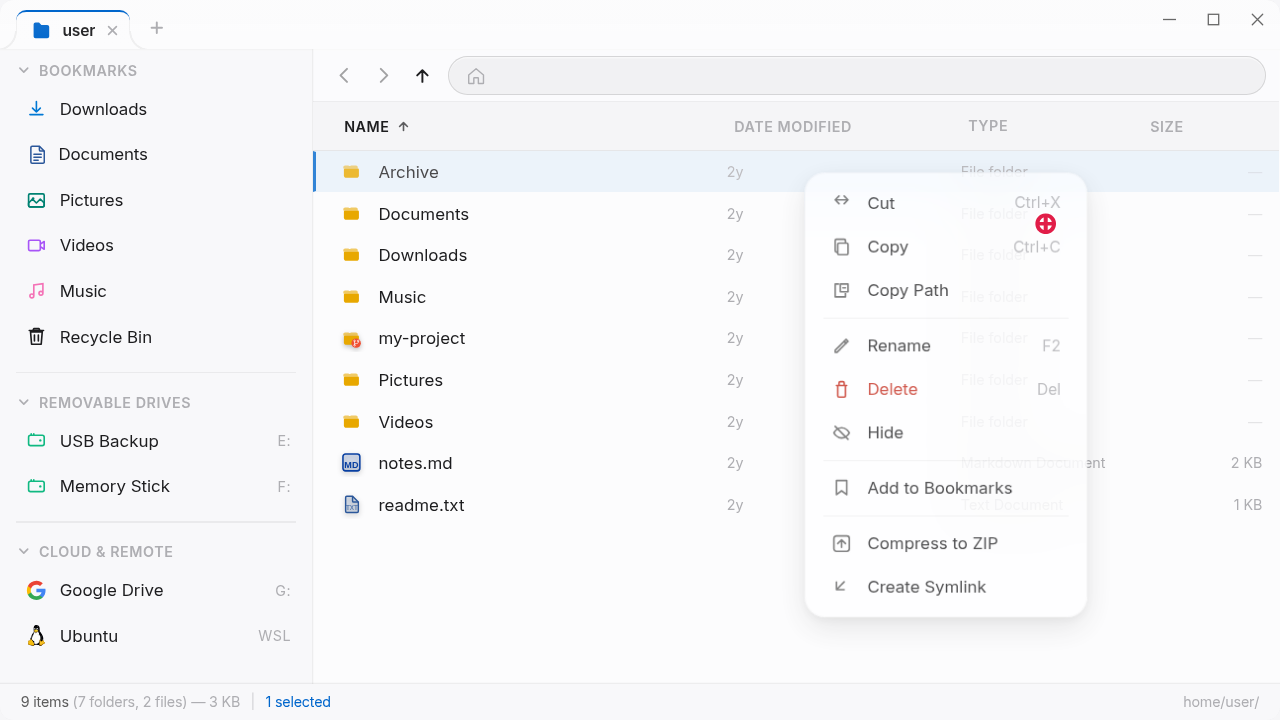
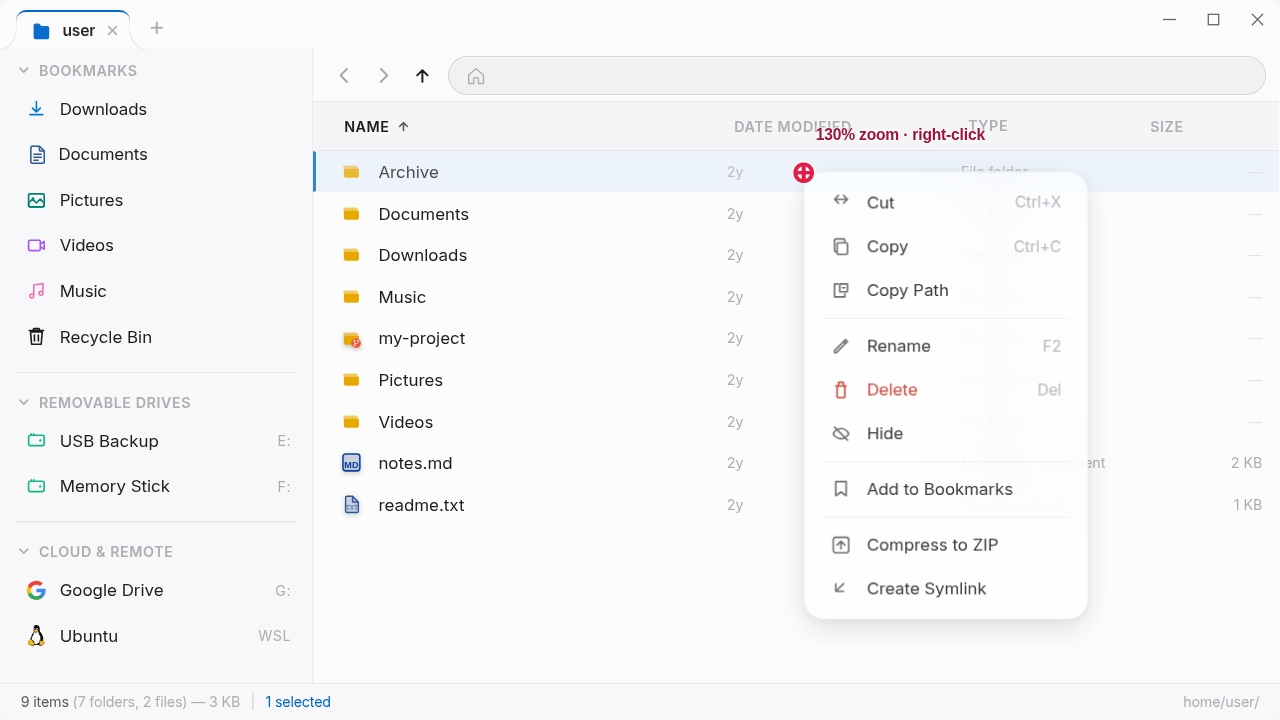
test: align context-menu evidence marker

diff --git a/e2e/zoom-positioning.spec.ts b/e2e/zoom-positioning.spec.ts
@@ -63,18 +63,18 @@ test.describe("Overlay positioning under zoom", () => {
     const rect = (await viewportRect(page, ".context-menu"))!;
     expect(Math.abs(rect.x - clickX)).toBeLessThan(TOLERANCE);
     expect(Math.abs(rect.y - clickY)).toBeLessThan(TOLERANCE);
-    // Playwright screenshots omit the OS cursor. Mark the coordinate from the
-    // actual right-click so the committed capture proves the measured menu
-    // placement instead of merely showing an open menu.
-    await page.evaluate(({ x, y }) => {
+    // Playwright screenshots omit the OS cursor. This Chromium control uses
+    // the same fixed-coordinate conversion as the menu: raw viewport coords
+    // would be zoomed a second time and make the evidence misleading.
+    await page.evaluate(({ x, y, zoom }) => {
       const marker = document.createElement("div");
       marker.dataset.testid = "context-menu-invoking-cursor";
       marker.setAttribute("aria-label", "Invoking cursor");
       marker.textContent = "⊕";
       Object.assign(marker.style, {
         position: "fixed",
-        left: `${x}px`,
-        top: `${y}px`,
+        left: `${x / zoom}px`,
+        top: `${y / zoom}px`,
         transform: "translate(-50%, -50%)",
         zIndex: "10000",
         color: "#e11d48",
@@ -82,8 +82,24 @@ test.describe("Overlay positioning under zoom", () => {
         textShadow: "0 0 3px white, 0 0 3px white",
         pointerEvents: "none",
       });
+      const label = document.createElement("span");
+      label.textContent = `${Math.round(zoom * 100)}% zoom · right-click`;
+      Object.assign(label.style, {
+        position: "absolute",
+        left: "18px",
+        top: "-20px",
+        whiteSpace: "nowrap",
+        color: "#9f1239",
+        font: "700 12px/1 system-ui",
+        textShadow: "0 0 3px white, 0 0 3px white",
+      });
+      marker.append(label);
       document.body.append(marker);
-    }, { x: clickX, y: clickY });
+    }, { x: clickX, y: clickY, zoom });
+    const marker = page.locator('[data-testid="context-menu-invoking-cursor"]');
+    const markerBox = (await marker.boundingBox())!;
+    expect(Math.abs(markerBox.x + markerBox.width / 2 - clickX)).toBeLessThan(3);
+    expect(Math.abs(markerBox.y + markerBox.height / 2 - clickY)).toBeLessThan(3);
     await page.screenshot({ path: "evidence/ac-1-context-menu-at-cursor.png" });
   });
 
